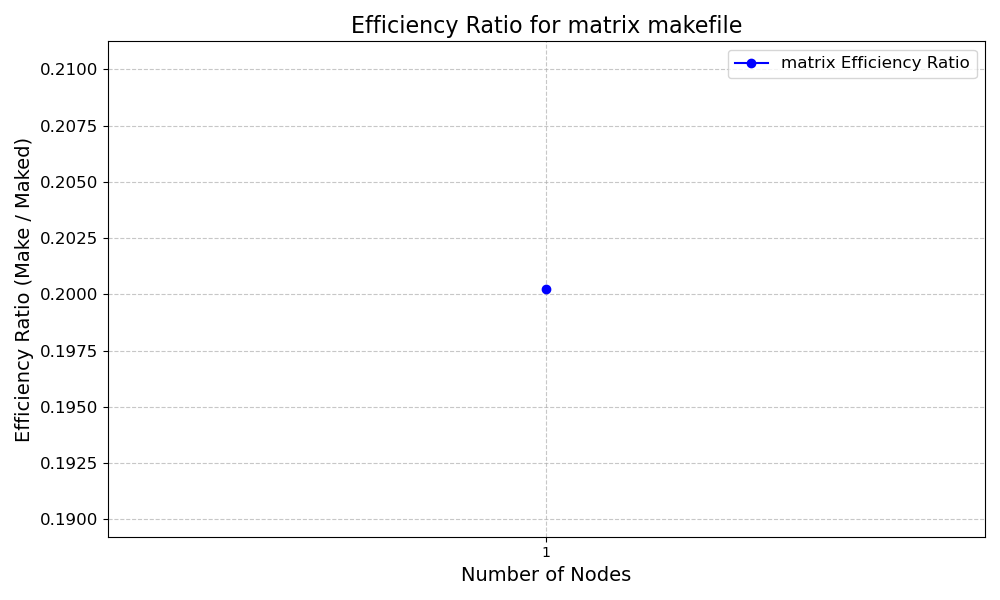
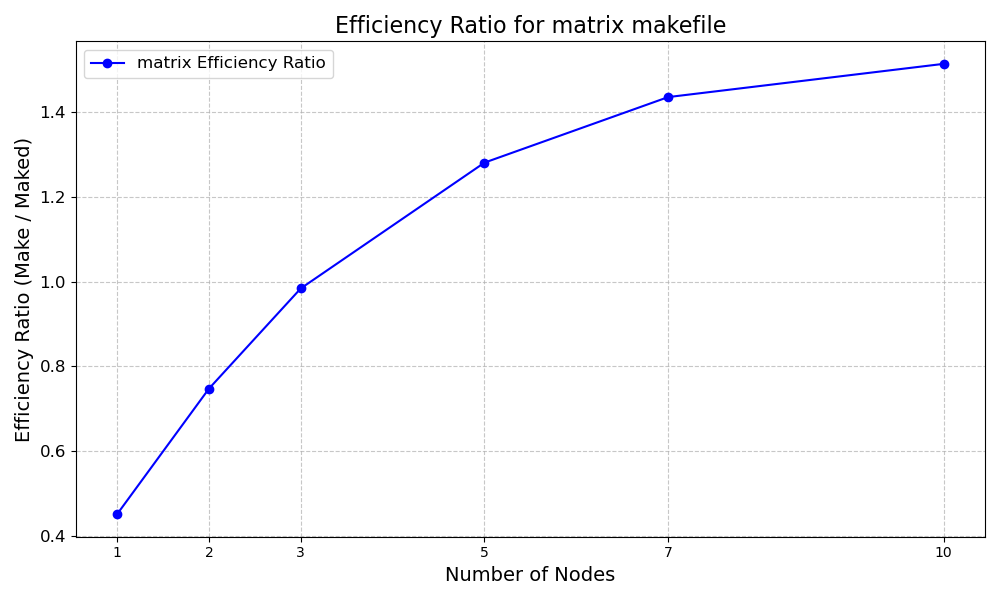
last version

diff --git a/deploy_all.py b/deploy_all.py
@@ -52,8 +52,8 @@ if __name__ == "__main__":
     site = os.getenv("GRID5000_SITE", "rennes")
     script_path = "./maked/run_maked.sh"
     script_init_path = "./maked/run_make.sh"    
-    directory_list = ["matrix", "premier_tiny", "premier"]
-    list_int = [2, 3, 4, 6, 8, 11]
+    directory_list = ["premier"]
+    list_int = [2, 3, 4, 5,6, 7,8, 11,16, 21]
 
     for directory in directory_list:
         print(f"Deployment for classic Make")

diff --git a/without_nfs/client/client.go b/without_nfs/client/client.go
@@ -262,7 +262,7 @@ forLoop:
 
 				// End of error management
 				jobReturn := JobReturn{CodeValue: codeError, TargetName: o.Name}
-				log.Printf("Command done, execution time: %.2f seconds", elapsedTime.Seconds())
+				log.Printf("Command %s done, execution time: %.2f seconds", o.Name ,elapsedTime.Seconds())
 				// Send the created files
 				// log.Println("Sending created files")
 				for _, fileName := range filesCreated {
